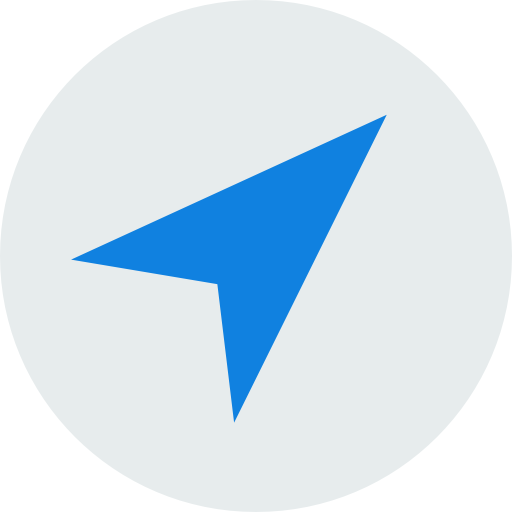
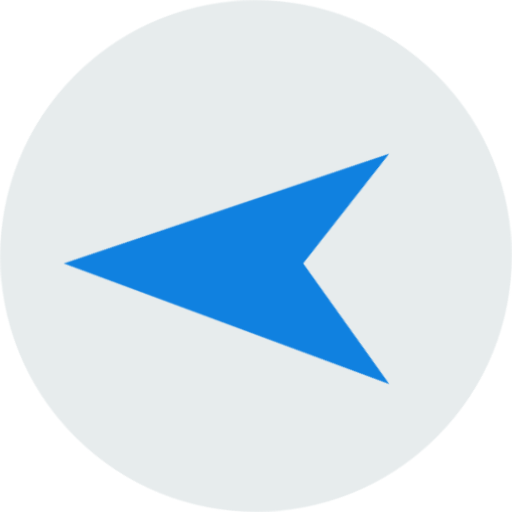
*

Changed region(s): [[0.125, 0.2188, 0.75, 0.8125], [0.625, 0.4375, 0.6562, 0.4688]]

diff --git a/src/components/map/TyrMap.vue b/src/components/map/TyrMap.vue
@@ -9,8 +9,6 @@
   import {OSM} from "ol/source";
   import {Component, Vue} from "vue-property-decorator";
   import {fromLonLat} from "ol/proj";
-  import {Icon, Style} from 'ol/style';
-  import VectorLayer from 'ol/layer/Vector';
   import {ComponentOptions} from 'vue';
   import {EventBus} from '../../services/EventBus';
   import MapPage from './MapPage.vue';
@@ -19,6 +17,7 @@
 
   @Component
   export default class TyrMap extends Vue implements ComponentOptions<TyrMap> {
+    private trackPosition = true;
     private nav: LocationNavigator;
     private map: Map = new Map({});
     private view: View = new View({
@@ -29,17 +28,7 @@
       source: new OSM(),
       preload: Infinity
     });
-    private currentPosition: PositionMarker;
-    private locationHeadingStyle = new Style({
-      image: new Icon({
-        src: 'direction.svg',
-        imgSize: [27, 27],
-        rotateWithView: true
-      })
-    });
-    private locationHeadingVectorLayer = new VectorLayer({
-      style: this.locationHeadingStyle
-    });
+    private positionMarker: PositionMarker;
 
     constructor() {
       super();
@@ -48,7 +37,7 @@
 
     created(): void {
       EventBus.$off(MapPage.events.recenter);
-      EventBus.$on(MapPage.events.recenter, () => this.nav.getPosition().subscribe((position) => this.goToPosition(position), error => console.log(error)));
+      EventBus.$on(MapPage.events.recenter, () => this.nav.getPosition().subscribe(this.goToPosition, error => console.error(error)));
     }
 
     mounted() {
@@ -58,19 +47,35 @@
         view: this.view,
         controls: []
       });
+      this.map.on('pointerdrag', () => {
+        this.trackPosition = false;
+      });
       this.nav.getPosition().subscribe(position => {
         this.goToPosition(position);
-        this.currentPosition = new PositionMarker(position);
-        this.map.addLayer(this.currentPosition.createVectorLayer())
+        this.positionMarker = new PositionMarker(position);
+        this.map.addLayer(this.positionMarker.createVectorLayer())
       });
-      this.nav.watchPosition().subscribe(this.onPositionChange.bind(this));
+      this.watchPosition();
+    }
+
+    watchPosition() {
+      this.nav.watchPosition().subscribe(this.onPositionChange.bind(this), (error) => {
+        if (error === 'TIME_OUT') {
+          this.watchPosition();
+        }
+      });
     }
 
     onPositionChange(position: Position) {
-      this.currentPosition.setPosition(position);
+      this.positionMarker.setPosition(position);
+      if (this.trackPosition) {
+        console.log('trackPosition', position.coords);
+        this.view.animate({center: fromLonLat([position.coords.longitude, position.coords.latitude])})
+      }
     }
 
     goToPosition(position: Position) {
+      this.trackPosition = true;
       this.view.animate({
         center: fromLonLat([position.coords.longitude, position.coords.latitude]),
         zoom: 15

diff --git a/src/components/map/features/PositionMarker.ts b/src/components/map/features/PositionMarker.ts
@@ -7,28 +7,36 @@ import Style from 'ol/style/Style';
 import VectorLayer from 'ol/layer/Vector';
 import VectorSource from 'ol/source/Vector';
 
-
 export class PositionMarker extends Feature {
+  private prevPoint: Point = new Point([0, 1]);
   private point: Point;
   private style: Style;
+  private icon: Icon;
 
   constructor(position: Position, options?: Geometry | { [key: string]: any }) {
     super(options);
+    this.icon = new Icon({
+      scale: 0.05,
+      crossOrigin: 'anonymous',
+      src: require('../../../assets/images/position_marker.png'),
+      rotateWithView: true
+    });
     this.point = new Point(PositionMarker.positionToCoords(position));
     this.style = new Style({
-      image: new Icon({
-        scale: 0.05,
-        crossOrigin: 'anonymous',
-        src: require('../../../assets/images/position_marker.png'),
-        rotateWithView: true
-      })
+      image: this.icon
     });
     this.setGeometry(this.point);
     this.setStyle(this.style);
   }
 
   setPosition(position: Position) {
+    this.prevPoint.setCoordinates(this.point.getCoordinates());
     this.point.setCoordinates(PositionMarker.positionToCoords(position));
+    const prevCoords = this.prevPoint.getCoordinates();
+    const currentCoords = this.point.getCoordinates();
+    if (prevCoords[0] !== currentCoords[0] || prevCoords[1] !== currentCoords[1]) {
+      this.icon.setRotation(PositionMarker.calcRotation(this.prevPoint.getCoordinates(), this.point.getCoordinates()));
+    }
   }
 
   createVectorLayer(): VectorLayer {
@@ -39,7 +47,23 @@ export class PositionMarker extends Feature {
     });
   }
 
+  private static calcRotation(pointFrom: any[], pointTo: any[]): number {
+    const normalized = PositionMarker.normalize(pointFrom, pointTo);
+    return Math.atan2(normalized[1], -1 * normalized[0]);
+  }
+
   private static positionToCoords(position: Position): number[] {
     return fromLonLat([position.coords.longitude, position.coords.latitude]);
+  }
+
+  private static normalize(pointFrom: any[], pointTo: any[]): any[] {
+    return [
+      pointTo[0] - pointFrom[0],
+      pointTo[1] - pointFrom[1]
+    ]
+  }
+
+  private static vectorLength(vectorPoint: any[]): number {
+    return Math.sqrt(vectorPoint[0] * vectorPoint[0] + vectorPoint[1] * vectorPoint[1]);
   }
 }

diff --git a/src/components/map/LocationNavigator.ts b/src/components/map/LocationNavigator.ts
@@ -3,8 +3,8 @@ import {Observable} from 'rxjs';
 
 export class LocationNavigator {
   private static readonly options: PositionOptions = {
-    timeout: 5000,
-    maximumAge: 20000,
+    timeout: 20000,
+    maximumAge: 60000,
     enableHighAccuracy: true
   };
 
@@ -13,11 +13,18 @@ export class LocationNavigator {
       let watchId: number = 0;
       if (navigator.geolocation) {
         watchId = navigator.geolocation.watchPosition(
-          position => subscriber.next(position),
-          error => subscriber.error(this.onPositionError(error)),
+          position => {
+            subscriber.next(position);
+            subscriber.complete();
+          },
+          error => {
+            subscriber.error(this.onPositionError(error));
+            subscriber.complete();
+          },
           LocationNavigator.options);
       } else {
-        return subscriber.error('NAVIGATION_UNAVAILABLE');
+        subscriber.error('NAVIGATION_UNAVAILABLE');
+        subscriber.complete();
       }
       return () => navigator.geolocation.clearWatch(watchId);
     });

diff --git a/src/services/HttpInterceptor.ts b/src/services/HttpInterceptor.ts
@@ -6,7 +6,6 @@ import {authService} from './AuthService';
 
 export const interceptRequests = () => {
   axios.interceptors.request.use(async (config: AxiosRequestConfig) => {
-    console.log(config);
     let tokens = store.getters['auth/tokens'] as TokenResponse;
     const refreshBefore = new Date();
     refreshBefore.setMinutes(refreshBefore.getMinutes() - 1);
